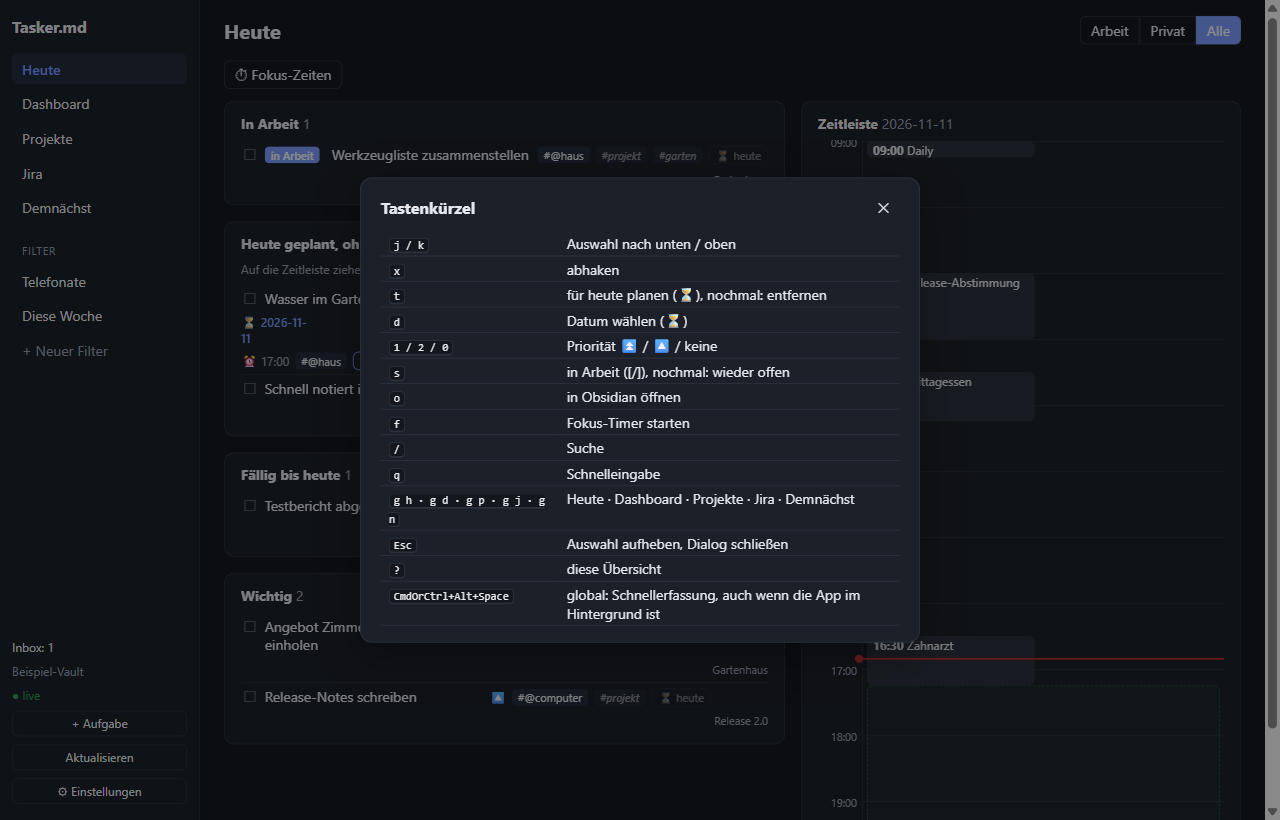
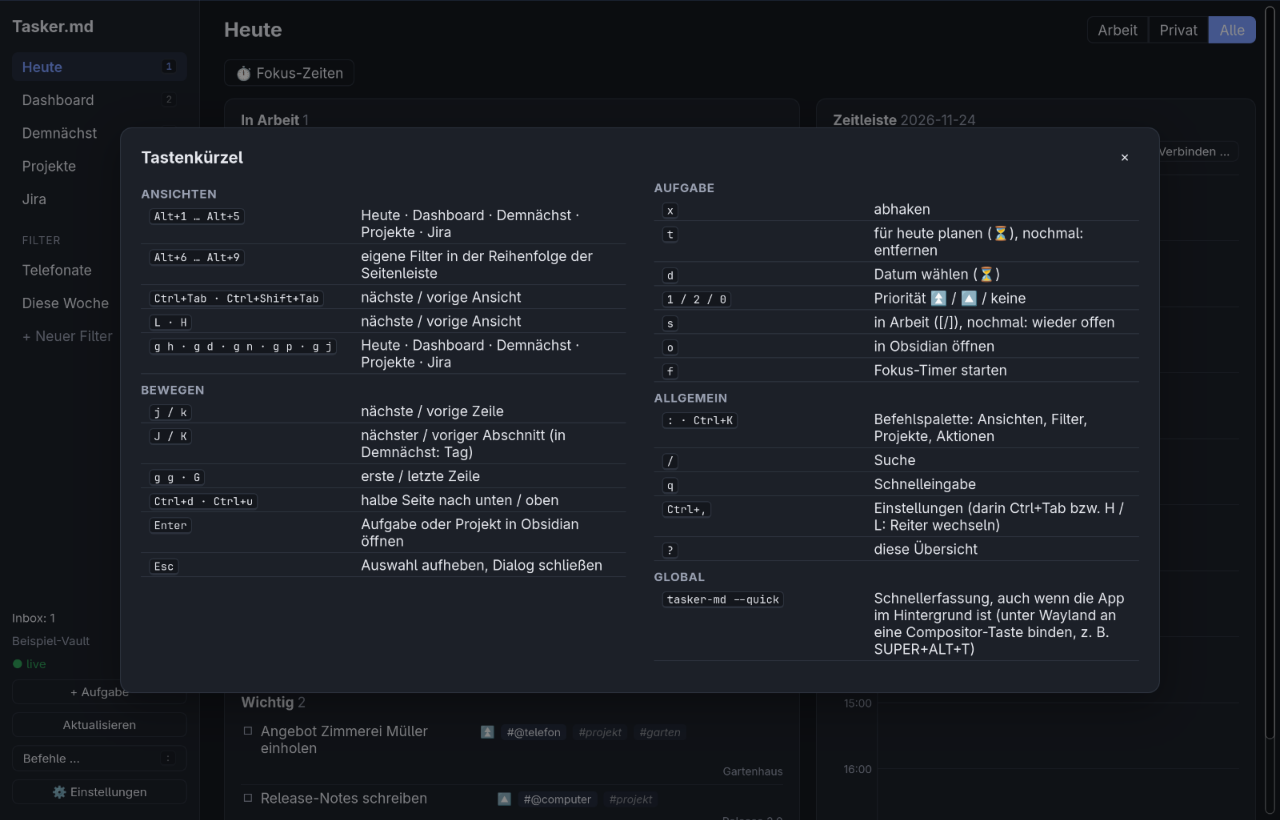
Tastenübersicht zweispaltig, Handbuch-Bild neu aufgenommen
- Die Gruppen der Übersicht (?) stehen in zwei Spalten und passen auch
  in ein 820 px hohes Fenster.
- Feste Breite für die Tastenspalte, damit alle Beschreibungen bündig
  beginnen.
- docs/img/tastenkuerzel.png neu aufgenommen (Demo-Vault, 1280×820).

diff --git a/src/styles.css b/src/styles.css
@@ -250,7 +250,7 @@ button.link { border: none; padding: 0; color: var(--accent); }
 .task.selected, .up-card.selected { background: var(--tag); box-shadow: inset 3px 0 0 var(--accent); }
 .task.selected .plan { opacity: 1; }
 kbd { font-family: ui-monospace, Consolas, monospace; font-size: 11px; border: 1px solid var(--border); border-bottom-width: 2px; border-radius: 4px; padding: 0 4px; background: var(--bg); }
-.modal.shortcuts { width: min(560px, 92vw); }
+.modal.shortcuts { width: min(1040px, 96vw); }
 .modal.shortcuts td { padding: 3px 8px; vertical-align: top; }
 .modal.date-dialog { width: min(420px, 92vw); outline: none; }
 .date-quick { display: flex; flex-wrap: wrap; gap: 6px; }
@@ -275,5 +275,8 @@ tr[data-task-key] { cursor: default; }
 .palette-list li.active { background: var(--tag); box-shadow: inset 3px 0 0 var(--accent); }
 .palette-group { color: var(--muted); font-size: 11px; min-width: 88px; }
 .palette-label { flex: 1; overflow: hidden; white-space: nowrap; text-overflow: ellipsis; }
-.shortcut-groups { overflow: auto; display: flex; flex-direction: column; gap: 6px; }
+.shortcut-groups { overflow: auto; columns: 2 440px; column-gap: 28px; }
+.shortcut-groups section { break-inside: avoid; margin-bottom: 8px; }
+.shortcut-groups table { width: 100%; border-collapse: collapse; }
+.shortcut-groups td:first-child { white-space: nowrap; width: 212px; }
 .shortcut-groups h3 { margin: 6px 0 2px; font-size: 12px; text-transform: uppercase; letter-spacing: .04em; color: var(--muted); }
